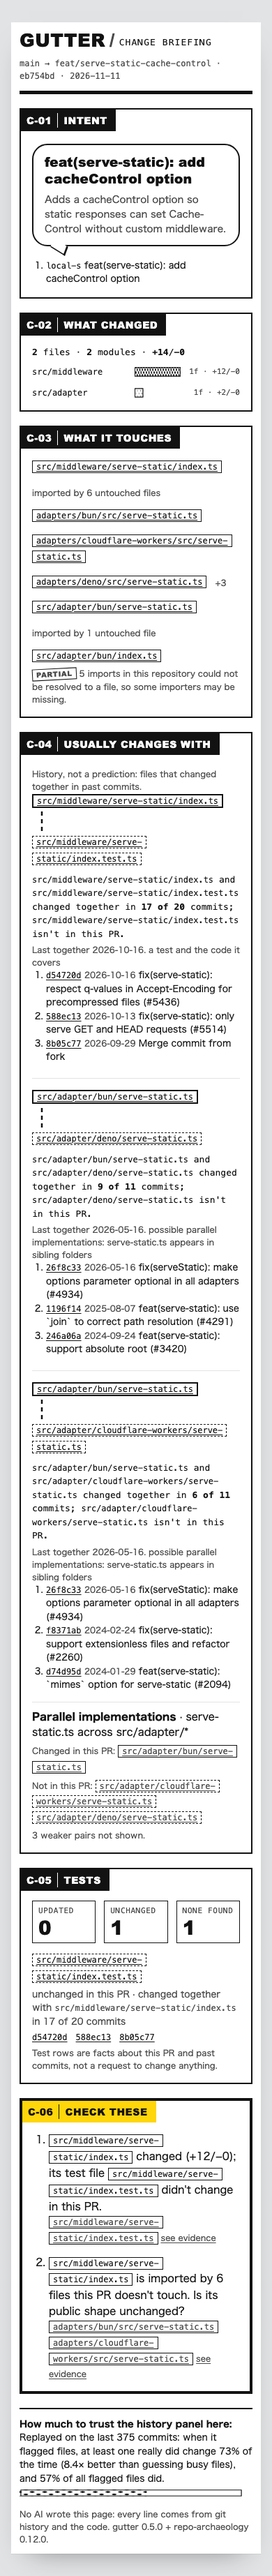
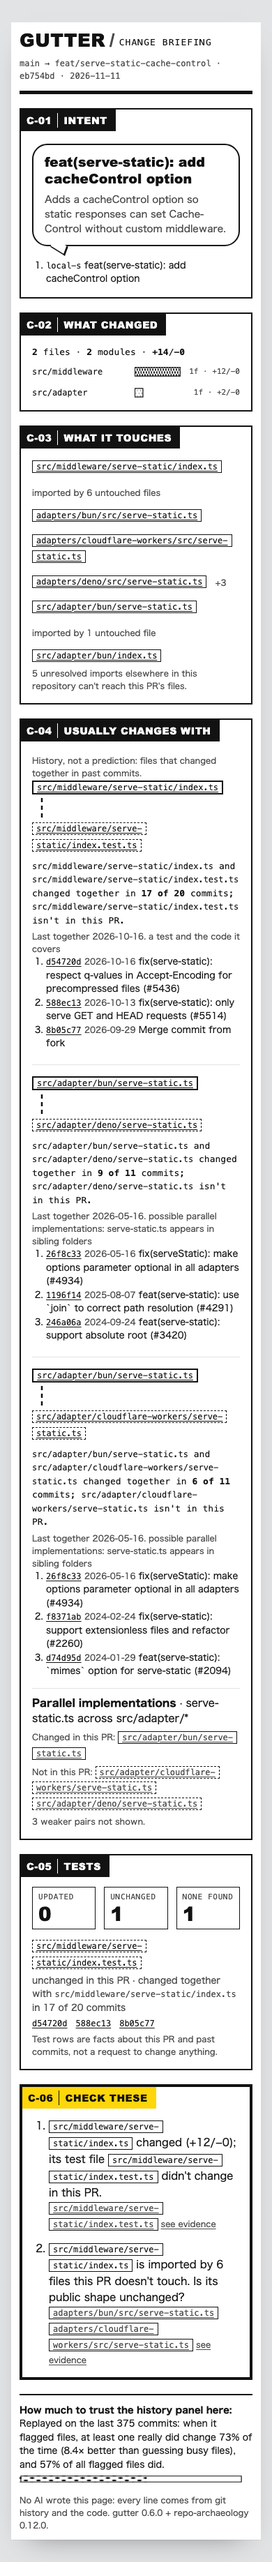
chore(release): 0.6.0
Version bump; CHANGELOG 0.6.0 (GU-32, FRAME/12 devDependencies); hono example
and screenshots regenerated with 0.6.0 (What it touches is no longer partial).

Changed region(s): [[0.0615, 0.031, 0.9231, 0.9932], [0.0923, 0.0, 0.1231, 0.031]]

diff --git a/docs/example/gutter.html b/docs/example/gutter.html
@@ -6,69 +6,6 @@
 <meta name="color-scheme" content="light dark">
 <title>Gutter · feat(serve-static): add cacheControl option</title>
 <style id="f12-tokens">/* Generated by @frame12/tokens — generated, do not edit by hand. */
-/* Cross-platform metric-matched fallbacks for Dela Gothic One, Zen Kaku Gothic New, and
-   M PLUS 1 Code across macOS, Windows, Linux (Liberation/DejaVu/Noto), and Android (Roboto)
-   so cold-network .woff2 swaps do not reflow headings, controls, paragraphs, or tables. */
-@font-face {
-  font-family: "f12DisplayFallback";
-  src: local("Arial"), local("Helvetica Neue"), local("Helvetica"), local("Liberation Sans"), local("Arimo"), local("Nimbus Sans"), local("Nimbus Sans L"), local("Roboto"), local("Noto Sans"), local("FreeSans");
-  font-weight: 400;
-  size-adjust: 131.74%;
-  ascent-override: 88.05%;
-  descent-override: 21.86%;
-  line-gap-override: 0%;
-}
-
-@font-face {
-  font-family: "f12DisplayFallbackDejaVu";
-  src: local("DejaVu Sans"), local("Bitstream Vera Sans"), local("Verdana");
-  font-weight: 400;
-  size-adjust: 120.3%;
-  ascent-override: 96.4%;
-  descent-override: 23.9%;
-  line-gap-override: 0%;
-}
-
-@font-face {
-  font-family: "f12BodyFallback";
-  src: local("Arial"), local("Helvetica Neue"), local("Helvetica"), local("Liberation Sans"), local("Arimo"), local("Nimbus Sans"), local("Nimbus Sans L"), local("Roboto"), local("Noto Sans"), local("FreeSans");
-  font-weight: 400;
-  size-adjust: 99.1%;
-  ascent-override: 117.05%;
-  descent-override: 29.06%;
-  line-gap-override: 0%;
-}
-
-@font-face {
-  font-family: "f12BodyFallbackDejaVu";
-  src: local("DejaVu Sans"), local("Bitstream Vera Sans"), local("Verdana");
-  font-weight: 400;
-  size-adjust: 90.5%;
-  ascent-override: 128.17%;
-  descent-override: 31.82%;
-  line-gap-override: 0%;
-}
-
-@font-face {
-  font-family: "f12MonoFallbackConsolas";
-  src: local("Consolas");
-  font-weight: 400;
-  size-adjust: 90.91%;
-  ascent-override: 110%;
-  descent-override: 25.85%;
-  line-gap-override: 0%;
-}
-
-@font-face {
-  font-family: "f12MonoFallback";
-  src: local("Menlo"), local("DejaVu Sans Mono"), local("Courier New"), local("Liberation Mono"), local("Cousine"), local("Noto Sans Mono"), local("Droid Sans Mono");
-  font-weight: 400;
-  size-adjust: 83.19%;
-  ascent-override: 120.21%;
-  descent-override: 28.25%;
-  line-gap-override: 0%;
-}
-
 :where(:root) {
   --font-f-display: var(--font-dela-gothic-one, "Dela Gothic One"), "f12DisplayFallback", "f12DisplayFallbackDejaVu", "Arial Black", "Helvetica Neue", sans-serif;
   --font-f-body: var(--font-zen-kaku-gothic-new, "Zen Kaku Gothic New"), "f12BodyFallback", "f12BodyFallbackDejaVu", "Hiragino Sans", "Helvetica Neue", "Arial", sans-serif;
@@ -256,7 +193,7 @@ a:focus-visible,.panel:focus-visible{outline:var(--f-stroke) solid var(--f-rule)
         <span class="small">imported by 6 untouched files</span>
         <span class="importers"><a href="https://github.com/honojs/hono/blob/eb754bd5ef22c63f1634a4c374a86be086f85710/adapters/bun/src/serve-static.ts"><code class="path">adapters/bun/src/serve-static.ts</code></a> <a href="https://github.com/honojs/hono/blob/eb754bd5ef22c63f1634a4c374a86be086f85710/adapters/cloudflare-workers/src/serve-static.ts"><code class="path">adapters/cloudflare-workers/src/serve-static.ts</code></a> <a href="https://github.com/honojs/hono/blob/eb754bd5ef22c63f1634a4c374a86be086f85710/adapters/deno/src/serve-static.ts"><code class="path">adapters/deno/src/serve-static.ts</code></a> <span class="small">+3</span></span></li><li id="deps:src/adapter/bun/serve-static.ts"><a href="https://github.com/honojs/hono/blob/eb754bd5ef22c63f1634a4c374a86be086f85710/src/adapter/bun/serve-static.ts"><code class="path">src/adapter/bun/serve-static.ts</code></a>
         <span class="small">imported by 1 untouched file</span>
-        <span class="importers"><a href="https://github.com/honojs/hono/blob/eb754bd5ef22c63f1634a4c374a86be086f85710/src/adapter/bun/index.ts"><code class="path">src/adapter/bun/index.ts</code></a></span></li></ul><p class="small"><span class="stamp">partial</span> 5 imports in this repository could not be resolved to a file, so some importers may be missing.</p>
+        <span class="importers"><a href="https://github.com/honojs/hono/blob/eb754bd5ef22c63f1634a4c374a86be086f85710/src/adapter/bun/index.ts"><code class="path">src/adapter/bun/index.ts</code></a></span></li></ul><p class="small">5 unresolved imports elsewhere in this repository can&#39;t reach this PR&#39;s files.</p>
 </section>
 <section class="panel area-history" data-cut="C-04" aria-labelledby="p4">
   <h2 id="p4" class="cap"><span class="num">C-04</span> Usually changes with</h2>
@@ -308,7 +245,7 @@ a:focus-visible,.panel:focus-visible{outline:var(--f-stroke) solid var(--f-rule)
   </div>
   <footer class="colophon">
     <div class="cal"><p><b>How much to trust the history panel here:</b> Replayed on the last 375 commits: when it flagged files, at least one really did change 73% of the time (8.4× better than guessing busy files), and 57% of all flagged files did.</p><svg class="gauge" viewBox="0 0 100 8" preserveAspectRatio="none" role="img" aria-label="Measured precision 57%"><rect x="0" y="0" width="57" height="8" fill="url(#tone-2)"/><rect x="0.6" y="0.6" width="98.8" height="6.8" class="bar-ink"/></svg></div>
-    <p class="small">No AI wrote this page: every line comes from git history and the code. gutter 0.5.0 + repo-archaeology 0.12.0.</p>
+    <p class="small">No AI wrote this page: every line comes from git history and the code. gutter 0.6.0 + repo-archaeology 0.12.0.</p>
   </footer>
 </article>
 </main>

diff --git a/src/version.ts b/src/version.ts
@@ -1,1 +1,1 @@
-export const GUTTER_VERSION = '0.5.0';
+export const GUTTER_VERSION = '0.6.0';

diff --git a/CHANGELOG.md b/CHANGELOG.md
@@ -2,13 +2,16 @@
 
 ## Unreleased
 
+## 0.6.0 · 2026-11-11
+
+- The hono example and its screenshots are regenerated with 0.6.0: "What it touches" is no longer marked partial (its 5 unresolved imports cannot reach the PR's files) and says so in a quiet line.
 - **`GU-32` `coverage: partial` is scoped to the PR's files ([DECISIONS #21](docs/DECISIONS.md#21-coverage-partial-means-an-import-that-could-reach-this-prs-files-is-unresolved-gu-32)). A change of meaning, not of shape:** `dependents.coverage` is `partial` only when an unresolved import could resolve to one of the PR's changed or removed files; before, any unresolved import anywhere in the repository made every PR `partial`. Measured on GU-30's corpus ([`docs/benchmark/COVERAGE.md`](docs/benchmark/COVERAGE.md)): on 4000 real PRs the median share of PRs `partial` goes from 1.00 to 0.00, and repositories where every PR is `partial` from 14 to 1 (`team-telnyx/telnyx-node`, whose examples import the package by name and its `exports` point into `dist/`); 10742 of 156418 unresolved imports could reach the PR's files (measured on this branch's code, repo-archaeology 0.12.0). Salience and checklist match GU-31's replays on all 4000 PRs. Rerun 1's 1179 seeded mutations (seed 20261111), rescored: 5 records in the two Python repositories differ from Rerun 1, and all 5 are identical when the same mutations are scored by `main` without GU-32 (GU-31's post-Rerun 1 changes); GU-32 itself moves only `missReason` labels.
   - The rule (`src/evidence/coverage-scope.ts`, table-tested per reason code and language): TS/JS relative specifiers by path; `unknown-package` by the `package.json` names above the file; other reasons by the specifier's last segment against the file's stem or directory, or a bare package's own files; Go by package directory; Python by dotted module under any source root. When in doubt, relevant; no `reasonCode` is always relevant. The relative scanner fallback applies the same rule.
   - Additive, schema v1: `dependents.unresolved.relevant` (`{ count, samples, byReason }`, the imports that could reach the PR's files) and `DependentsEntry.coverage` (`partial` when such an import could reach that file). `unresolved.count`/`samples`/`byReason` stay repository-wide. Older `gutter.json` files validate and render exactly as before.
   - Renderers: "partial" names how many imports could reach the PR's files and one sample, and marks each reached entry; the repository-wide count is a quiet line ("N unresolved imports elsewhere in this repository can't reach this PR's files"), never "partial". New goldens in `test/fixtures/gu32/`.
   - Bench records and Gate A′ replay records gain optional `relevantUnresolvedByReason` (`schema/bench.schema.json`). From now on, seeded scoring labels a miss `partial` under the new meaning (Rerun 1 used the old one); only labels can move.
   - New `bench/gu32-coverage.ts`, `bench/gu32-run.mjs` and `bench/gu32-report.mjs` (a measurement, not a gate; not preregistered).
-- FRAME/12 packages as devDependencies (no runtime dependency): the page's token block is now generated from `@frame12/tokens` 0.2.0 (`scripts/sync-frame12-tokens.ts`; adds the metric-matched font fallbacks), and the tests lint every generated page (brief, bench report, labeling page, the committed example) with `@frame12/lint` 0.3.0's `lintHtml()`. It found marker yellow on the focus outline of all three page types; focus rings now use `--f-rule`, and `lintPage()` flags marker yellow on anything but a background. `@frame12/static` and `@frame12/terminal` are not adopted: both would be runtime dependencies (`terminal` also needs ink and React).
+- FRAME/12 packages as devDependencies (no runtime dependency): the page's token block is now generated from `@frame12/tokens` 0.2.0 (`scripts/sync-frame12-tokens.ts`), without the package's `@font-face` metric fallbacks: they match web fonts Gutter's offline pages never load, and would render headings in regular Arial and code at 83%, and the tests lint every generated page (brief, bench report, labeling page, the committed example) with `@frame12/lint` 0.3.0's `lintHtml()`. It found marker yellow on the focus outline of all three page types; focus rings now use `--f-rule`, and `lintPage()` flags marker yellow on anything but a background. `@frame12/static` and `@frame12/terminal` are not adopted: both would be runtime dependencies (`terminal` also needs ink and React).
 
 ## 0.5.0 · 2026-11-11
 

diff --git a/README.md b/README.md
@@ -4,7 +4,7 @@
 
 Gutter is a GitHub Action and CLI (`gutter-brief`, binary `gutter`) that posts a compact, evidence-backed change briefing on every pull request — what changed, what depends on it, what the tests show, and what the history says — with clickable commit receipts. You decide what matters.
 
-`Experimental · v0.5.0` · `Local-first` · `Deterministic (no AI / LLM)` · `MIT License`
+`Experimental · v0.6.0` · `Local-first` · `Deterministic (no AI / LLM)` · `MIT License`
 
 ```yaml
 # .github/workflows/gutter.yml
@@ -81,7 +81,7 @@ None of these is a verdict. The test row is a historical fact; whether this chan
 
 ### 2 · What lands in the pull request (sticky Markdown comment)
 
-GitHub pull request comments cannot render custom CSS, so Gutter posts **one compact, updating Markdown comment** (and stays completely silent on small, unremarkable PRs in `auto` mode). Full source: [`docs/example/brief.md`](docs/example/brief.md) (generated with gutter 0.5.0 + repo-archaeology 0.12.0 as a library; see [`docs/example/README.md`](docs/example/README.md) to reproduce it).
+GitHub pull request comments cannot render custom CSS, so Gutter posts **one compact, updating Markdown comment** (and stays completely silent on small, unremarkable PRs in `auto` mode). Full source: [`docs/example/brief.md`](docs/example/brief.md) (generated with gutter 0.6.0 + repo-archaeology 0.12.0 as a library; see [`docs/example/README.md`](docs/example/README.md) to reproduce it).
 
 > ### Gutter · change briefing
 >
@@ -94,7 +94,7 @@ GitHub pull request comments cannot render custom CSS, so Gutter posts **one com
 >
 > *(Plus collapsed `<details>` sections: **Usually changes with** (history, not a prediction), **What it touches**, **Tests**, and **What changed**.)*
 >
-> <sub>Replayed on the last 375 commits: when it flagged files, at least one really did change 73% of the time (8.4× better than guessing busy files), and 57% of all flagged files did. · No AI wrote this: every line comes from git history and the code · gutter 0.5.0 + repo-archaeology 0.12.0</sub>
+> <sub>Replayed on the last 375 commits: when it flagged files, at least one really did change 73% of the time (8.4× better than guessing busy files), and 57% of all flagged files did. · No AI wrote this: every line comes from git history and the code · gutter 0.6.0 + repo-archaeology 0.12.0</sub>
 
 ### 3 · The full six-panel page (`gutter.html` artifact)
 
@@ -175,7 +175,7 @@ Full preregistered methodology and scoring rules: [`docs/benchmark/METHOD.md`](d
 
 ### Option 1 · GitHub Action (`lbrodie11/gutter@v0`)
 
-> **SHA-pinning note:** `dist/` is gitignored on `main` and attached to release tag commits by `release.yml`. If you pin actions to a 40-character commit SHA instead of `@v0` / `@v0.5.0`, always pin to the **release tag's commit SHA** (`git rev-parse v0.5.0^{commit}`), never an unbuilt `main` branch commit SHA.
+> **SHA-pinning note:** `dist/` is gitignored on `main` and attached to release tag commits by `release.yml`. If you pin actions to a 40-character commit SHA instead of `@v0` / `@v0.6.0`, always pin to the **release tag's commit SHA** (`git rev-parse v0.6.0^{commit}`), never an unbuilt `main` branch commit SHA.
 
 | Input | Default | Behavior |
 |---|---|---|

diff --git a/docs/example/brief.md b/docs/example/brief.md
@@ -19,14 +19,14 @@
 
 </details>
 
-<details><summary><b>What it touches</b> · 2 changed files with importers outside this PR (partial)</summary>
+<details><summary><b>What it touches</b> · 2 changed files with importers outside this PR</summary>
 
 - [`src/middleware/serve-static/index.ts`](https://github.com/honojs/hono/blob/eb754bd5ef22c63f1634a4c374a86be086f85710/src/middleware/serve-static/index.ts) ← [`adapters/bun/src/serve-static.ts`](https://github.com/honojs/hono/blob/eb754bd5ef22c63f1634a4c374a86be086f85710/adapters/bun/src/serve-static.ts), [`adapters/cloudflare-workers/src/serve-static.ts`](https://github.com/honojs/hono/blob/eb754bd5ef22c63f1634a4c374a86be086f85710/adapters/cloudflare-workers/src/serve-static.ts), [`adapters/deno/src/serve-static.ts`](https://github.com/honojs/hono/blob/eb754bd5ef22c63f1634a4c374a86be086f85710/adapters/deno/src/serve-static.ts), [`src/adapter/cloudflare-workers/serve-static.ts`](https://github.com/honojs/hono/blob/eb754bd5ef22c63f1634a4c374a86be086f85710/src/adapter/cloudflare-workers/serve-static.ts) +2 more
 - [`src/adapter/bun/serve-static.ts`](https://github.com/honojs/hono/blob/eb754bd5ef22c63f1634a4c374a86be086f85710/src/adapter/bun/serve-static.ts) ← [`src/adapter/bun/index.ts`](https://github.com/honojs/hono/blob/eb754bd5ef22c63f1634a4c374a86be086f85710/src/adapter/bun/index.ts)
 
-</details>
+<sub>5 unresolved imports elsewhere in this repository can't reach this PR's files.</sub>
 
-<sub>5 imports in this repository could not be resolved to a file, so some importers may be missing.</sub>
+</details>
 
 <details><summary><b>Tests</b> · 0 updated · 1 unchanged · 1 with no test found</summary>
 
@@ -45,4 +45,4 @@
 
 </details>
 
-<sub>Replayed on the last 375 commits: when it flagged files, at least one really did change 73% of the time \(8\.4× better than guessing busy files\), and 57% of all flagged files did\. · No AI wrote this: every line comes from git history and the code · gutter 0.5.0 + repo-archaeology 0.12.0</sub>
+<sub>Replayed on the last 375 commits: when it flagged files, at least one really did change 73% of the time \(8\.4× better than guessing busy files\), and 57% of all flagged files did\. · No AI wrote this: every line comes from git history and the code · gutter 0.6.0 + repo-archaeology 0.12.0</sub>
